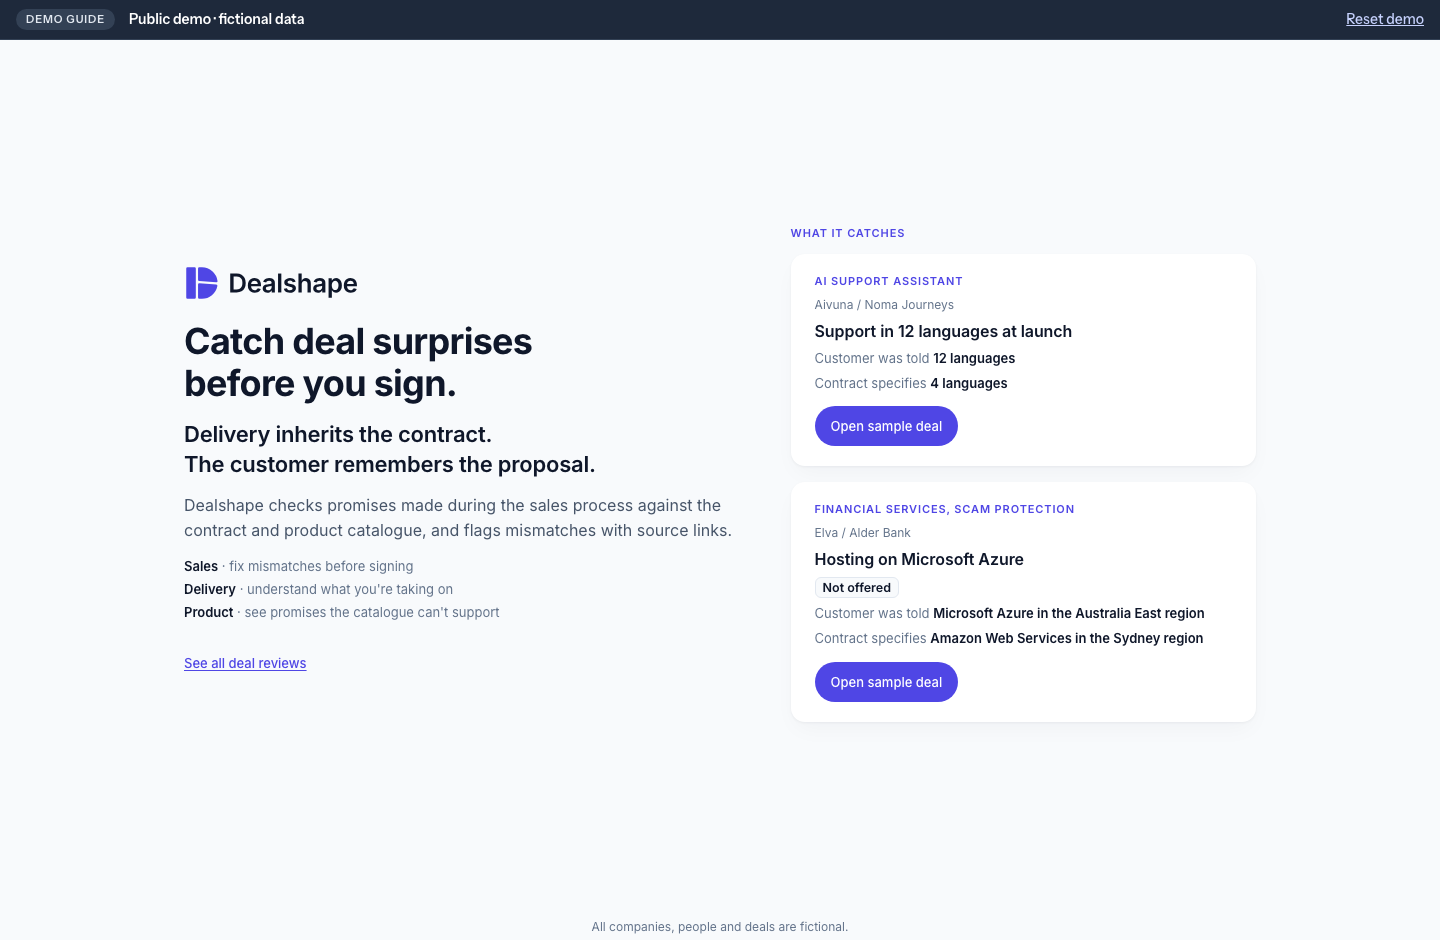
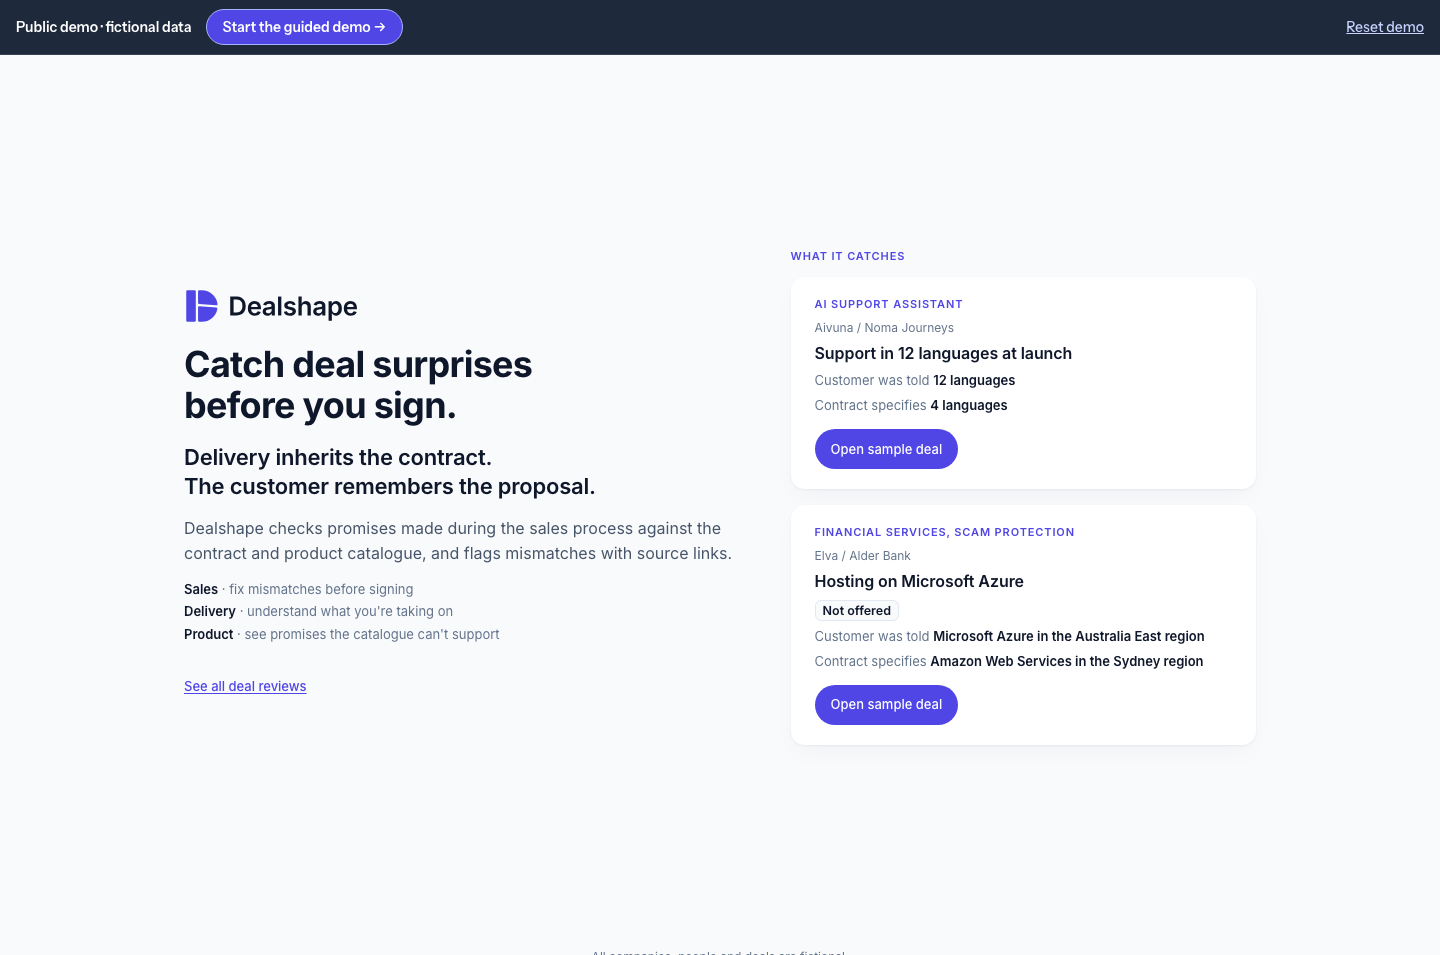
Demo bar: Start the guided demo on landing and deal list; pill on deal pages only; tests 830/261

diff --git a/frontend/src/App.jsx b/frontend/src/App.jsx
@@ -1,4 +1,4 @@
-import { useCallback, useEffect, useRef, useState } from "react";
+import { useCallback, useContext, useEffect, useRef, useState } from "react";
 import * as api from "./api.js";
 import Handoff from "./Handoff.jsx";
 import Deals from "./Deals.jsx";
@@ -7,7 +7,7 @@ import Landing from "./Landing.jsx";
 import { WELCOME_HASH, isWelcome, landingSeen, markLandingSeen, showLanding } from "./landing.js";
 import { TAGLINE } from "./brand.js";
 import { readHash } from "./dealpage.js";
-import { DEMO_OFF, DemoContext, GuidePublishContext, GuideStateContext, useDemo } from "./demo.js";
+import { DEMO_OFF, DemoContext, DemoNavContext, GuidePublishContext, GuideStateContext, useDemo } from "./demo.js";
 import { DemoBar } from "./DemoUI.jsx";
 import { TYPE_EFFECT, alsoLine, checkLine, checkUpload, fmtDate, fmtDateTime, guessType, plural, typeFromName, uploadKind } from "./format.js";
 
@@ -1020,12 +1020,15 @@ export default function App() {
     ask(4);
     return () => { alive = false; };
   }, []);
+  const navRef = useRef(null); // the app's openDeal, for the bar's "Start the guided demo"
   const [guide, setGuide] = useState(null); // what the deal page tells the bar: which deal, its documents and commitments, and what "Do step N" does
   return (
     <DemoContext.Provider value={demo}>
       <GuidePublishContext.Provider value={setGuide}>
         <GuideStateContext.Provider value={guide}>
-          <DemoBar /><AppBody />
+          <DemoNavContext.Provider value={navRef}>
+            <DemoBar /><AppBody />
+          </DemoNavContext.Provider>
         </GuideStateContext.Provider>
       </GuidePublishContext.Provider>
     </DemoContext.Provider>
@@ -1034,6 +1037,7 @@ export default function App() {
 
 function AppBody() {
   const demo = useDemo();
+  const demoNav = useContext(DemoNavContext);
   const [deals, setDeals] = useState(null);
   const [current, setCurrent] = useState(() => (isWelcome(window.location.hash) ? null : readHash(window.location.hash).d)); // #d=<deal>&c=<key>: a reload or a shared link reopens it
   const [landing, setLanding] = useState(() => showLanding(window.location.hash, landingSeen(), readHash(window.location.hash).d)); // first visit, or #welcome
@@ -1058,6 +1062,11 @@ function AppBody() {
     bareAtLoad.current = false;
     setCurrent(null); setClassic(false); setLanding(true);
   }, [demo.public]);
+  // The demo bar's "Start the guided demo →" (public mode) opens a deal from the landing page or the deal list.
+  useEffect(() => {
+    demoNav.current = (slug) => { markLandingSeen(); if (isWelcome(window.location.hash)) clearHash(); setLanding(false); setClassic(false); setCurrent(slug); };
+    return () => { demoNav.current = null; };
+  });
   // 11 Nov: a new screen starts at the top. Going back to the deal list from a scrolled deal page used to keep the offset, which left the
   // public banner above the window.
   useEffect(() => { window.scrollTo(0, 0); }, [current, landing, classic]);

diff --git a/frontend/src/DemoUI.jsx b/frontend/src/DemoUI.jsx
@@ -2,7 +2,7 @@
 import { useContext, useEffect, useRef, useState } from "react";
 import * as api from "./api.js";
 import ResetDemo from "./ResetDemo.jsx";
-import { ALL_ADDED, BAR_DONE, BAR_NOTE_FALLBACK, GUIDES, GuideStateContext, NAME_NOTE, NO_SAMPLES, TOUR_KEYS, addSample, barStepText, filingLine, guideSteps, markTourDone, sampleSteps, tourCaptions, tourDone, useDemo } from "./demo.js";
+import { ALL_ADDED, BAR_DONE, BAR_NOTE_FALLBACK, DemoNavContext, GUIDES, GuideStateContext, START_LABEL, NAME_NOTE, NO_SAMPLES, TOUR_KEYS, addSample, barStepText, filingLine, guideSteps, markTourDone, sampleSteps, startGuidedDemo, tourCaptions, tourDone, useDemo } from "./demo.js";
 
 export function DemoNameNote() {
   return useDemo().public ? <p className="dp-faint dp-small demo-name-note">{NAME_NOTE}</p> : null;
@@ -15,6 +15,7 @@ export function DemoNameNote() {
 export function DemoBar({ initialSamples = null, initialOpen = false, initialTour = null, toured = null }) {
   const demo = useDemo();
   const guide = useContext(GuideStateContext);
+  const nav = useContext(DemoNavContext);
   const [samples, setSamples] = useState(initialSamples);
   const [open, setOpen] = useState(initialOpen);
   const [tour, setTour] = useState(initialTour); // null, or the part (0-2) of the "Get the picture" tour being shown in the bar
@@ -56,8 +57,9 @@ export function DemoBar({ initialSamples = null, initialOpen = false, initialTou
   return (
     <div className="demo-bar" ref={bar} role="region" aria-label="Public demo">
       <div className="demo-bar-row">
-        <span className="demo-bar-pill">Demo guide</span>
+        {steps && <span className="demo-bar-pill">Demo guide</span>}
         {!steps && <strong className="demo-bar-status">{demo.banner}</strong>}
+        {!steps && <button type="button" className="demo-bar-do" onClick={() => startGuidedDemo(nav)}>{START_LABEL}</button>}
         {steps && (
           <span className="demo-bar-stepblock" role="status">
             <span className="demo-bar-meta">

diff --git a/frontend/src/demo.js b/frontend/src/demo.js
@@ -186,3 +186,13 @@ export const barStepText = (steps) => {
   return current ? { n: current.n, total: steps.length, label: `Step ${current.n} of ${steps.length}`, text: current.label, step: current } : null;
 };
 export const BAR_DONE = "Done · Reset demo to try again";
+
+// "Start the guided demo →" on the landing page and the deal list (public mode): open Noma Journeys at step 1. The tour's browser-only done mark is cleared, so the
+// deal opens on "Get the picture"; every other step is read from the deal itself.
+export const FIRST_DEAL = "noma_journeys";
+export const START_LABEL = "Start the guided demo \u2192";
+export const DemoNavContext = createContext({ current: null }); // .current is set by the app to openDeal(slug)
+export function startGuidedDemo(nav, storage = globalThis.sessionStorage) {
+  clearTourDone(storage);
+  nav?.current?.(FIRST_DEAL);
+}

diff --git a/DECISIONS.md b/DECISIONS.md
@@ -1504,3 +1504,7 @@ Public mode only; local mode unchanged.
 - **Demo bar:** left, a "Demo guide" pill (small, uppercase, light text on a lighter slate). "Public demo · fictional data" moved into the top of the All steps dropdown (it stays beside the pill on pages without steps: landing and the deal list, with Reset demo). The step block is "Step N of 6" (12.5px, light grey) above the step text (15px, semi-bold, white), with six progress dots beside the count (done light indigo, current white with an indigo ring, later an outline); with everything done it reads "All 6 steps" and "Done · Reset demo to try again". "Do step N", "Show me", "Next" and "Finish" are 36px tall with 14px text, in indigo; "All steps", "Skip tour" and "Reset demo" are 14px. Measured in a browser: 57px on desktop, 97px on a phone (two lines: the pill and the step, then the buttons; the step text stays 15px and wraps rather than clips; nothing clipped in the tour either). Still dark slate and sticky; every text pair is at least 4.5:1 and the dots 3:1 (tested from the stylesheet's colours).
 - **Bare URL:** with no hash the public demo opens the landing page, even for a returning visitor. It is decided once, when the server says it is public mode (so a fast first paint may briefly show the page the visitor would have seen before it switches); a deal link or #welcome is left alone, and local mode still shows the deal list to a returning visitor (checked in a browser).
 - **Checked:** Python 830 tests OK (unchanged), frontend 259 pass (254 + 5; the bar tests now read the count and the step text separately). Engine files, `results/v2_cache`, `data/scenarios/` and the real ledger unchanged. Screenshots: `docs/screens/2026-11-11/public_demo_bar_step1_*`, `public_demo_bar_tour_*`, `public_demo_bar_landing_*` at 1440px and 390px (the earlier bar shots from this day are superseded).
+
+## 2026-11-11 (start button on the landing page and the list)
+
+Public mode only. On pages without steps (landing, deal list) the demo bar drops the "Demo guide" pill and shows "Public demo · fictional data", an indigo "Start the guided demo →" button and "Reset demo"; the pill stays on deal pages. The button opens Noma Journeys on step 1: it clears the tour's browser-only done mark (so the deal opens on "Get the picture" with "Show me"; every other step is read from the deal) and asks the app to open the deal (`DemoNavContext`). Checked in a browser from the landing page and from the list. Python 830 OK, frontend 261 pass (259 + 2); engine files, cache, scenarios and real ledger unchanged. Screenshots: `docs/screens/2026-11-11/public_demo_bar_landing_*` at 1440px and 390px.
